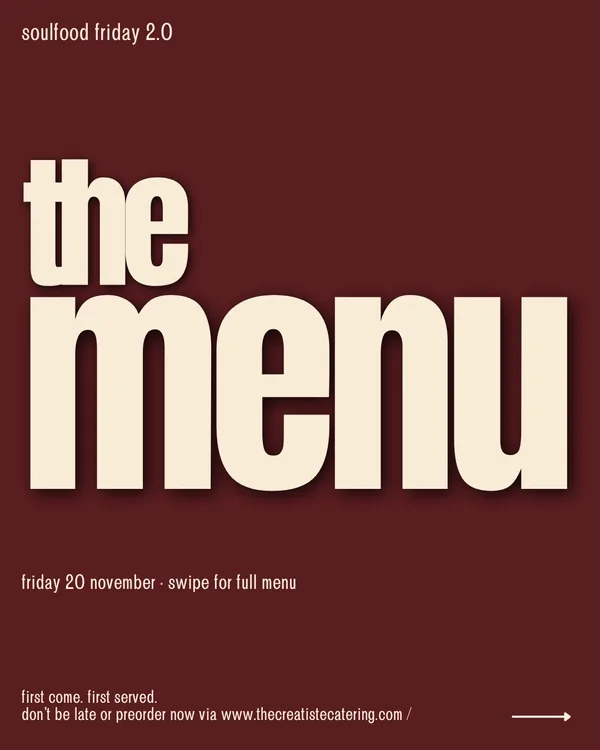
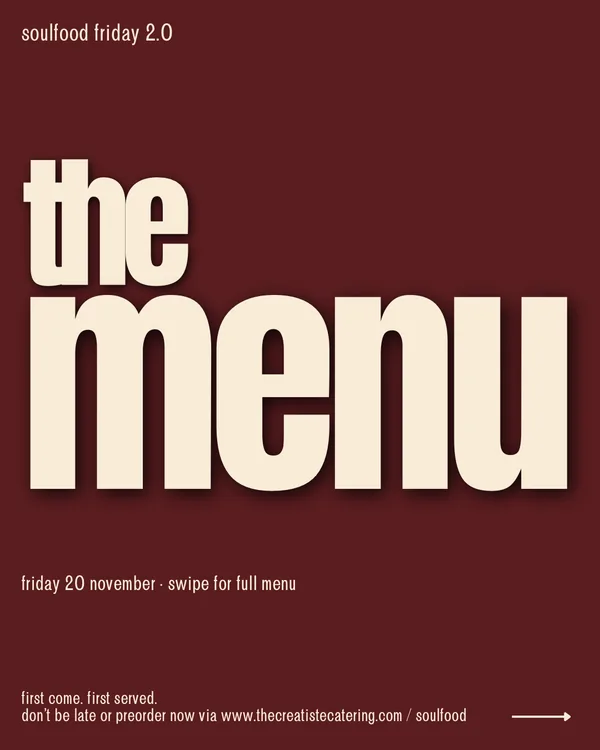
Soulfood: 6.30pm till late, East Croydon, Partiful updates; new cover
Claude-Session: https://claude.ai/code/session_01RvXCHYktuGLtUezGsT2ELr

diff --git a/site/src/content/site.js b/site/src/content/site.js
@@ -383,9 +383,10 @@ export const NOW = {
       kind: 'Pop-up',
       name: 'Soulfood Friday 2.0',
       sub: 'Thanksgiving pop-up',
-      when: 'Friday 20 November · London',
+      when: 'Friday 20 November · 6.30pm till late · East Croydon',
       detail: 'We’re back. Come. Eat. Be thankful. A one-night Thanksgiving soul food table. RSVPs are open and spaces are limited.',
-      meta: ['Fri 20 Nov', 'London', 'Time to be announced', 'Location to be announced'],
+      meta: ['Fri 20 Nov', '6.30pm till late', 'East Croydon'],
+      footnote: 'Live updates via Partiful: RSVP to get them.',
       flyer: { src: '/flyers/soulfood-friday-2.webp', alt: 'Flyer: We’re back. Soulfood Friday 2.0, a Thanksgiving pop-up on Friday 20 November in London. Come. Eat. Be thankful. RSVPs open, limited spaces.' },
       preorder: { label: 'Pre-order now', to: '/soulfood' },
       cta: { label: 'RSVP now', href: 'https://partiful.com/e/W4FoWq5EC4V1RDj6lua7?c=U5d0J40B' },
@@ -435,7 +436,7 @@ export const SOULFOOD = {
   name: 'Soulfood Friday 2.0',
   tag: 'soulfood friday 2.0',
   when: 'friday 20 november',
-  where: 'london',
+  where: 'east croydon · 6.30pm till late',
   sub: 'A one-night Thanksgiving soul food pop-up. On the night it’s first come, first served, so pre-order now, pay online, and your food is boxed and waiting under your name.',
   cover: { src: '/flyers/soulfood/the-menu.webp', alt: 'Soulfood Friday 2.0, the menu. Friday 20 November. First come, first served: don’t be late, or pre-order now.' },
   rsvp: 'https://partiful.com/e/W4FoWq5EC4V1RDj6lua7?c=U5d0J40B',
@@ -461,7 +462,7 @@ export const SOULFOOD = {
   prices: [['combo 1', '1 protein + 3 sides', 17], ['combo 2', '2 proteins + 3 sides', 21], ['combo 3', '2 proteins + 4 sides', 23], ['all in', '3 proteins + all sides', 30]],
   addOns: [['add dessert', 6.5], ['extra protein', 5.5], ['extra side', 3.5]],
   notes: ['Vegetarian? Pick the deep fried smoked tofu in place of any protein.', 'Tap a card to see it full size.'],
-  collect: 'Collect under your name at the pop-up on Friday 20 November. The time and location are announced on our Instagram, and we will message you before the night.',
+  collect: 'Collect under your name at the pop-up in East Croydon on Friday 20 November, from 6.30pm. Live updates via Partiful, and we will message you before the night.',
   terms: 'Pre-orders are paid in advance and collected on the night. Can’t make it? Tell us before pre-orders close and we will refund you; after that, payment is non-refundable as your food is made for you.',
   closed: {
     closed: ['Pre-orders have closed.', 'Thank you to everyone who ordered. Come down on the night: it’s first come, first served.'],
@@ -485,7 +486,7 @@ export const SOULFOOD = {
         { id: 'dessert', label: 'Dessert', pick: 'whipped cream or custard', min: 1, max: 1, options: SF_DESSERTS.map((name) => ({ name })) },
       ] },
     ],
-    slots: [{ id: 'popup', label: 'Collect at the pop-up', place: 'London, location to be announced', time: '' }],
+    slots: [{ id: 'popup', label: 'Collect at the pop-up', place: 'East Croydon', time: '6.30pm till late' }],
     delivery: { enabled: false },
   },
 }

diff --git a/backend/app/routers/preorders.py b/backend/app/routers/preorders.py
@@ -142,7 +142,7 @@ SOULFOOD_OFFER = {
     "currency": "GBP",
     "date": "2026-11-20",
     "closes": "2026-11-18T09:00",             # local time; after this the page shows that pre-orders have closed
-    "rev": 2,                                 # bump to push a menu or closing-time change onto the saved copy once (apply_owner_offers)
+    "rev": 3,                                 # bump to push a menu or closing-time change onto the saved copy once (apply_owner_offers)
     "pay": "card",                            # card through Stripe when it is connected; bank transfer until then
     "capacity": 0,                            # most boxes to take (0 = no limit)
     "paused": False,
@@ -163,10 +163,10 @@ SOULFOOD_OFFER = {
          "groups": [{"id": "dessert", "label": "Dessert", "pick": "whipped cream or custard", "min": 1, "max": 1,
                      "options": [{"name": n} for n in _SF_DESSERTS]}]},
     ],
-    "slots": [{"id": "popup", "label": "Collect at the pop-up", "place": "London, location to be announced", "time": ""}],
+    "slots": [{"id": "popup", "label": "Collect at the pop-up", "place": "East Croydon", "time": "6.30pm till late"}],
     "delivery": {"enabled": False},
-    "collect_note": "Collect under your name at the pop-up on Friday 20 November. The time and location are announced on our "
-                    "Instagram and we will message you before the night.",
+    "collect_note": "Collect under your name at the pop-up in East Croydon on Friday 20 November, from 6.30pm. Live updates "
+                    "via Partiful, and we will message you before the night.",
     "allergens_note": "Please tell us about any allergies before you pay. Vegetarian? Choose the deep fried smoked tofu.",
 }
 
@@ -928,7 +928,19 @@ def apply_owner_offers(db: Session) -> bool:
         owner.preorder_offers = extras
         changed = True
     elif idx is not None and int(extras[idx].get("rev") or 1) < SOULFOOD_OFFER["rev"]:
-        extras[idx] = {**extras[idx], **{k: copy.deepcopy(SOULFOOD_OFFER[k]) for k in ("items", "closes", "allergens_note", "rev")}}
+        cur = extras[idx]
+        upd = {k: copy.deepcopy(SOULFOOD_OFFER[k]) for k in ("items", "closes", "allergens_note", "rev")}
+        # rev 3: the time and place were announced. Fill them in unless she has already typed her own.
+        slot = dict((cur.get("slots") or [{}])[0])
+        if not slot.get("place") or "to be announced" in slot.get("place", ""):
+            slot["place"] = SOULFOOD_OFFER["slots"][0]["place"]
+        if not slot.get("time"):
+            slot["time"] = SOULFOOD_OFFER["slots"][0]["time"]
+        if slot.get("id"):
+            upd["slots"] = [slot] + list((cur.get("slots") or [])[1:])
+        if "announced on our" in (cur.get("collect_note") or ""):
+            upd["collect_note"] = SOULFOOD_OFFER["collect_note"]
+        extras[idx] = {**cur, **upd}
         owner.preorder_offers = extras
         changed = True
     main = dict(owner.preorder_offer or {})

diff --git a/CLAUDE.md b/CLAUDE.md
@@ -1001,6 +1001,7 @@ Command** (matched by the email used on invoices); the £15 is **non-refundable,
     with captions + a **tofu card** in her style (`SlideCard`, sizes in `cqw` via `.slide-card` CSS; swap `card` for `img` when she sends a
     tofu slide), tap → `Viewer` (arrows/swipe/Escape). Old `soulfood-menu.webp` removed. Pre-orders page says "paid into your Creatiste
     Command Stripe account"; Support FAQ no longer mentions the env var.
+  - **Time + place announced (follow-up):** 6.30pm till late, East Croydon, "Live updates via Partiful" on What's Up (meta + footnote), the pop-up hero, the collect note and the offer slot; `rev` 3 fills her saved slot only if it was still unset/"to be announced" and swaps the old Instagram collect note. Cover replaced with her version ending "/ soulfood".
   - Verified: `test_popup.py` 53/53, new `test_stripe_command.py` 28/28 (Command key, gating, forged/unknown sessions refused, Command
     webhook settles + idempotent, subscriptions still activate, rev-2 migration keeps her settings, own key takes over),
     `test_preorders.py` 37/37 (webhook tests now mark the fake session paid first); Playwright `pop_e2e/verify_pop.py` 78/78 with Command
